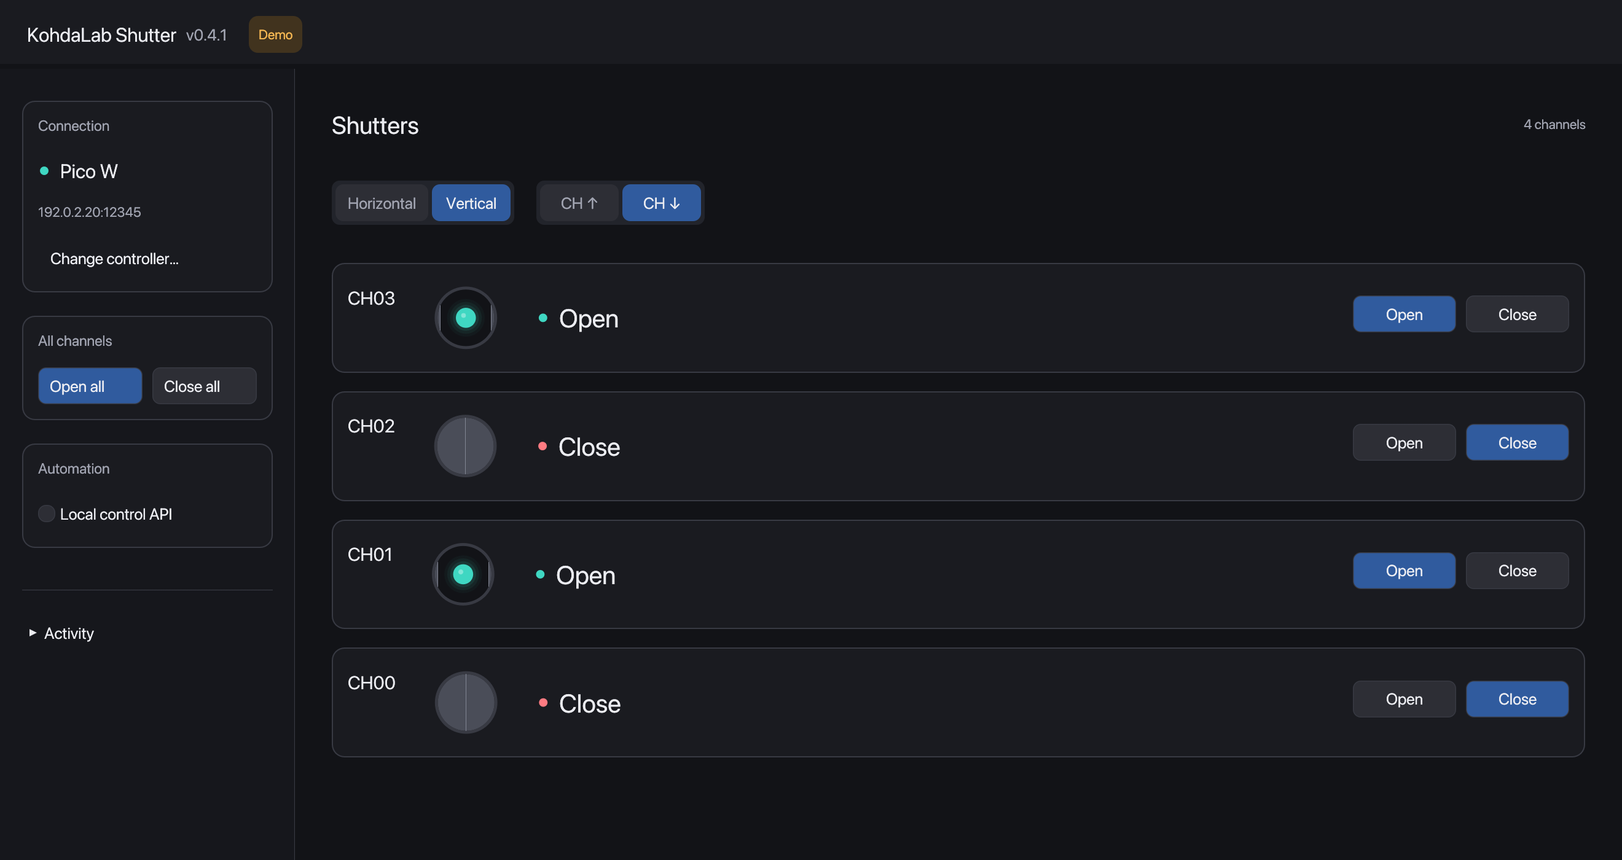
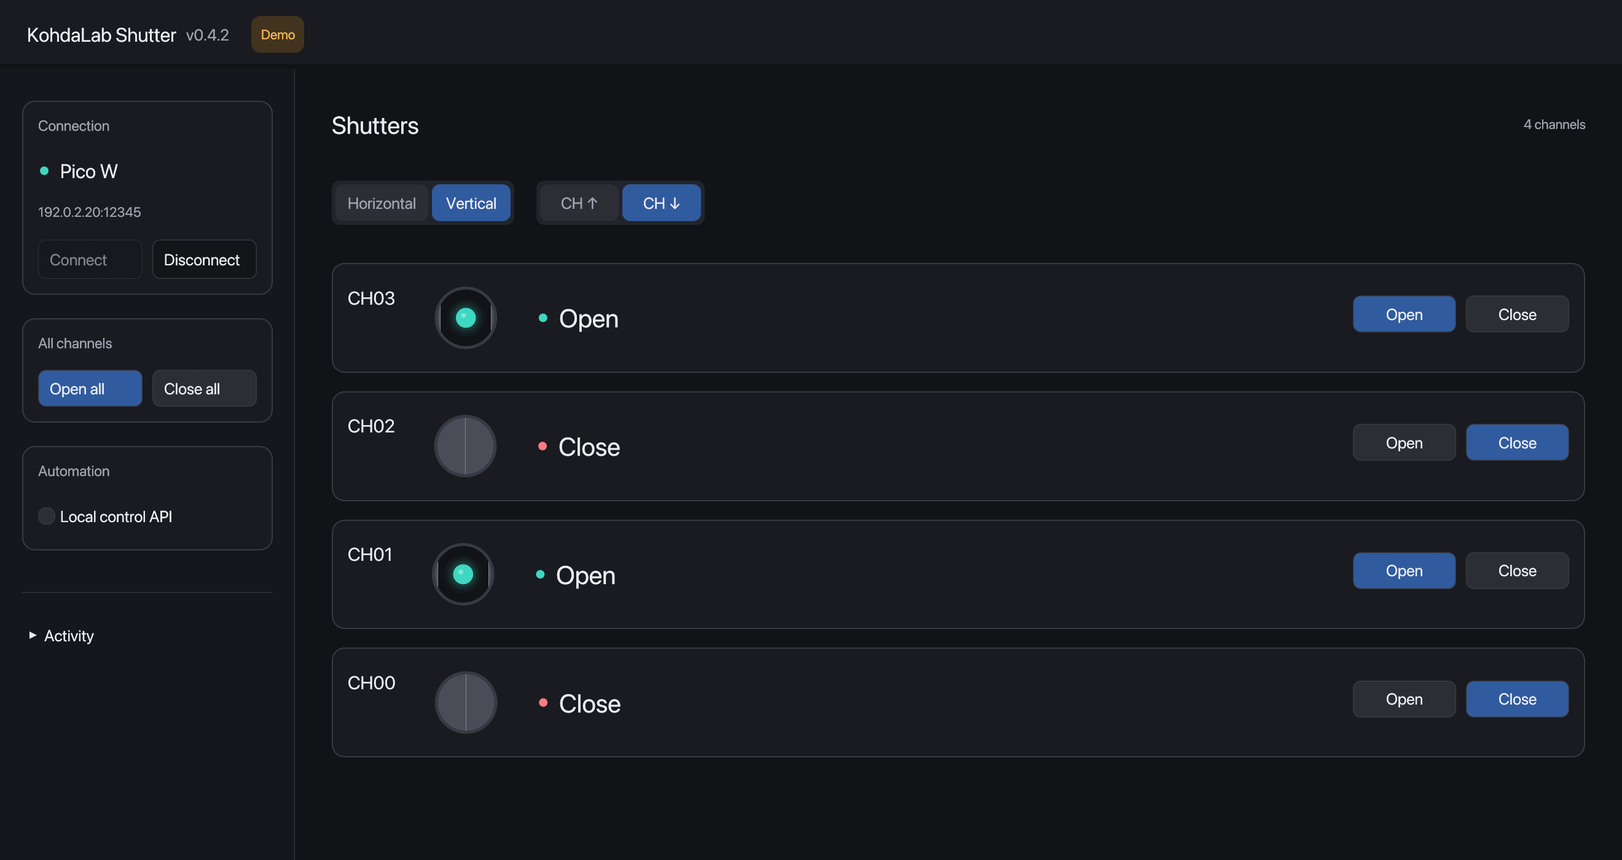
Parallelize shutter motion and stabilize connection controls for v0.4.2

diff --git a/src/bin/gui.rs b/src/bin/gui.rs
@@ -652,18 +652,6 @@ impl App {
                                 .color(MUTED),
                         );
                     });
-                ui.add_space(9.0);
-                if ui
-                    .add_enabled(
-                        manual,
-                        egui::Button::new("Change controller…")
-                            .fill(Color32::TRANSPARENT)
-                            .stroke(Stroke::NONE),
-                    )
-                    .clicked()
-                {
-                    self.disconnect();
-                }
             } else {
                 if ui
                     .add_enabled(
@@ -712,13 +700,40 @@ impl App {
                         ui.label("Port");
                         ui.add(egui::DragValue::new(&mut self.port).range(1..=65535));
                     });
-                    if ui
-                        .add_sized([ui.available_width(), 34.0], egui::Button::new("Connect"))
-                        .clicked()
-                    {
-                        self.connect();
-                    }
                 });
+            }
+            ui.add_space(9.0);
+            ui.columns(2, |columns| {
+                if columns[0]
+                    .add_enabled(
+                        manual && !connected && !self.host.trim().is_empty(),
+                        egui::Button::new("Connect")
+                            .min_size(Vec2::new(columns[0].available_width(), 32.0)),
+                    )
+                    .clicked()
+                {
+                    self.connect();
+                }
+                if columns[1]
+                    .add_enabled(
+                        manual && connected,
+                        egui::Button::new("Disconnect")
+                            .min_size(Vec2::new(columns[1].available_width(), 32.0)),
+                    )
+                    .clicked()
+                {
+                    self.disconnect();
+                }
+            });
+            // Connection/progress errors belong to the sidebar, never above
+            // the shutter cards where background polling would move controls.
+            if self.error || (!connected && self.pending.is_some()) {
+                ui.add_space(8.0);
+                ui.label(RichText::new(&self.message).small().color(if self.error {
+                    RED
+                } else {
+                    MUTED
+                }));
             }
             if !connected {
                 ui.add_enabled_ui(manual, |ui| {
@@ -837,18 +852,12 @@ impl App {
                         .on_hover_text("Descending channel order");
                 });
             });
+            // Keep the same toolbar geometry during every background refresh.
+            let (indicator, _) = ui.allocate_exact_size(Vec2::splat(18.0), egui::Sense::hover());
             if self.pending.is_some() {
-                ui.spinner();
+                egui::Spinner::new().paint_at(ui, indicator);
             }
         });
-        if self.error || self.pending.is_some() || !self.connected() {
-            ui.add_space(14.0);
-            ui.label(RichText::new(&self.message).small().color(if self.error {
-                RED
-            } else {
-                MUTED
-            }));
-        }
         ui.add_space(24.0);
         if self.status.is_empty() {
             ui.add_space(80.0);
@@ -1497,6 +1506,88 @@ mod tests {
                 .is_err()
         );
     }
+    fn render_text(app: &mut App) -> Vec<(String, egui::Pos2)> {
+        fn collect(shape: &egui::epaint::Shape, text: &mut Vec<(String, egui::Pos2)>) {
+            match shape {
+                egui::epaint::Shape::Text(label) => {
+                    text.push((label.galley.job.text.clone(), label.pos))
+                }
+                egui::epaint::Shape::Vec(shapes) => {
+                    for shape in shapes {
+                        collect(shape, text);
+                    }
+                }
+                _ => {}
+            }
+        }
+        let ctx = egui::Context::default();
+        style(&ctx);
+        let output = ctx.run(
+            egui::RawInput {
+                screen_rect: Some(egui::Rect::from_min_size(
+                    egui::Pos2::ZERO,
+                    Vec2::new(1320.0, 700.0),
+                )),
+                ..Default::default()
+            },
+            |ctx| {
+                egui::SidePanel::left("connection")
+                    .exact_width(240.0)
+                    .frame(egui::Frame::new().inner_margin(18))
+                    .show(ctx, |ui| app.connection_panel(ui));
+                egui::CentralPanel::default().show(ctx, |ui| app.channels_panel(ui));
+            },
+        );
+        let mut text = Vec::new();
+        for shape in output.shapes {
+            collect(&shape.shape, &mut text);
+        }
+        text
+    }
+
+    #[test]
+    fn polling_does_not_move_shutter_controls_or_show_connection_messages_above_them() {
+        for layout in [Layout::Horizontal, Layout::Vertical] {
+            let mut app = App::demo();
+            app.layout = layout;
+            app.message = "Connected. Commanded positions refresh every second.".into();
+            let idle = render_text(&mut app);
+            let (_sender, receiver) = mpsc::channel();
+            app.pending = Some(receiver);
+            let polling = render_text(&mut app);
+            for channel in 0..4 {
+                let name = format!("CH{channel:02}");
+                let before = idle
+                    .iter()
+                    .find(|(text, _)| text == &name)
+                    .expect("idle channel")
+                    .1;
+                let after = polling
+                    .iter()
+                    .find(|(text, _)| text == &name)
+                    .expect("polling channel")
+                    .1;
+                assert_eq!(before, after, "Polling moved {name}");
+            }
+            assert!(!polling.iter().any(|(text, _)| text == &app.message));
+        }
+    }
+
+    #[test]
+    fn connection_controls_always_show_connect_and_disconnect() {
+        let mut app = App::demo();
+        for connected in [true, false] {
+            app.demo_connected = connected;
+            let text = render_text(&mut app);
+            for label in ["Connect", "Disconnect"] {
+                assert!(
+                    text.iter().any(|(text, _)| text == label),
+                    "Missing {label}"
+                );
+            }
+        }
+    }
+
     #[test]
     fn display_order_is_numeric_for_both_layouts_without_renumbering_channels() {
         let mut app = App::demo();

diff --git a/server/settings.py b/server/settings.py
@@ -20,15 +20,14 @@ I2C_FREQ = 400_000
 PCA9685_ADDRESS = 0x40
 PCA9685_ANGLE_OFFSET = 0
 
-# Move one servo at a time to avoid supply-current spikes. Motion is slewed in
-# small steps, then PWM is released so a mechanism at its stop cannot keep
-# drawing stall current. Increase SERVO_RELEASE_DELAY_MS only if the shutter
-# needs more settling time. Set SERVO_RELEASE_PWM=False only for mechanisms
-# that cannot hold position without torque; doing so restores stall risk.
+# Motion is slewed in small steps, then PWM is released so a mechanism at its
+# stop cannot keep drawing stall current. Increase SERVO_RELEASE_DELAY_MS only
+# if the shutter needs more settling time. Set SERVO_RELEASE_PWM=False only
+# for mechanisms that cannot hold position without torque; doing so restores
+# stall risk.
 SERVO_STEP_DEGREES = 3
 SERVO_STEP_INTERVAL_MS = 20
 SERVO_RELEASE_DELAY_MS = 500
-SERVO_MAX_ACTIVE = 1
 SERVO_RELEASE_PWM = True
 
 # Add or remove entries here to build a different number of channels.
@@ -71,3 +70,7 @@ CHANNELS = (
         "open": 90,
     },
 )
+
+# Drive every configured channel in parallel by default. Set a lower value
+# when the external servo supply cannot support all shutters moving together.
+SERVO_MAX_ACTIVE = len(CHANNELS)

diff --git a/tests/test_servo.py b/tests/test_servo.py
@@ -1,5 +1,6 @@
 import pytest
 
+from server import settings
 from server.servo import ChannelConfigurationError, ServoBoard, validate_channels
 
 
@@ -86,6 +87,33 @@ def test_multiple_active_channels_can_hold_pwm(channels, pwm, clock):
     clock.advance(100)
     board.tick()
     assert not board.busy()
+    assert pwm.disabled == []
+
+
+def test_firmware_default_advances_all_configured_channels_in_parallel(pwm, clock):
+    board = make_board(
+        settings.CHANNELS,
+        pwm,
+        clock,
+        max_active=settings.SERVO_MAX_ACTIVE,
+    )
+    assert settings.SERVO_MAX_ACTIVE == len(settings.CHANNELS)
+
+    board.tick()
+    for index in range(board.count()):
+        assert board.open(index)
+
+    clock.advance(board.step_interval_ms)
+    board.tick()
+
+    assert board.positions == [
+        channel["close"]
+        + (
+            min(abs(channel["open"] - channel["close"]), board.step_degrees)
+            * (1 if channel["open"] > channel["close"] else -1)
+        )
+        for channel in settings.CHANNELS
+    ]
     assert pwm.disabled == []
 
 

diff --git a/docs/release-notes.md b/docs/release-notes.md
@@ -1,25 +1,23 @@
-Rust desktop controller with the light-window interface, Pico W discovery and external GUI API.
+## Changes / 変更内容
+
+- **Parallel All actions:** updated Pico settings allow all configured channels to move concurrently instead of waiting for the previous channel's movement and settling delay.
+- **Connect / Disconnect:** both controls are visible in the Connection panel.
+- **Stable layout:** background status polling no longer inserts a Connected message above the shutter cards, and the progress indicator uses fixed geometry. Horizontal and Vertical layouts stay in place during refreshes.
+- Includes the shared KohdaLab signing-policy preparation and Windows product metadata. These binaries are still not publisher-signed/Apple-notarized; no production signing is claimed.
+
+**Pico update required for parallel movement:** edit `SERVO_MAX_ACTIVE` in the device's existing `settings.py` to the channel count (e.g. `4` for four channels), then restart. Preserve calibrated angles, wiring and Wi-Fi/IP settings. The source default is `SERVO_MAX_ACTIVE = len(CHANNELS)` after the channel definitions. Updating only the desktop cannot change the device's current limit.
+
+**並列動作にはPico側の設定変更も必要です。** 実機の既存`settings.py`で`SERVO_MAX_ACTIVE`をCH数（4台なら`4`）へ変更し、再起動してください。校正角度・ピン・Wi-Fi/IP設定は変更しません。GUIだけの更新では実機の同時駆動数は変わりません。
 
 ## Downloads / ダウンロード
 
-- **Windows 10/11 (x64):** download `kohdalab-shutter-0.4.1-windows-x64.zip`, extract it, then open `kohdalab-shutter-gui.exe`. `Demo.cmd` opens a hardware-free preview.
-- **Mac (macOS 13+, Apple Silicon + Intel):** download `kohdalab-shutter-0.4.1-macos-universal.dmg`, then drag `KohdaLab Shutter.app` to Applications. The ZIP is an alternative containing the same app.
+- **Windows 10/11 (x64):** download `kohdalab-shutter-0.4.2-windows-x64.zip`, extract it, then open `kohdalab-shutter-gui.exe`. `Demo.cmd` opens a hardware-free preview.
+- **Mac (macOS 13+, Apple Silicon + Intel):** download `kohdalab-shutter-0.4.2-macos-universal.dmg`, then drag `KohdaLab Shutter.app` to Applications. The ZIP is an alternative containing the same app.
 
-**No Rust or Python installation is needed to run the desktop app.** The Pico W keeps its MicroPython firmware; initial firmware upload is a separate step.
+**No Rust or Python installation is needed to run the desktop app.** Initial Pico firmware setup and Python/Jupyter integration remain separate steps.
 
-PCでGUIを使うだけならRust・Pythonは不要です。Pico W側はMicroPythonを継続し、初回転送は別途必要です。
+Builds are **not publisher-signed or Apple-notarized**; Windows or macOS may prompt on first launch. Read the [installation guide](https://github.com/woolen-yarn/kohdalab-shutter/blob/main/docs/install.md). The Mac app is ad-hoc signed for integrity; SignPath acceptance and Apple enrollment/credentials remain pending.
 
-## Included / 内容
-
-- Front-facing light window: Open reveals light, Close covers it; Moving / Unknown remain explicit.
-- KohdaLab dark theme, concise English controls, version at the top.
-- Horizontal / vertical layouts and ascending / descending channel order.
-- Find Pico W, explicit selection among multiple controllers, calibrated shutter states.
-- GUI-owned local API v2 and Python/Jupyter client support.
-- Native GUI + CLI, license notices, build origin and SHA-256 checksums.
-
-Builds are **not publisher-signed or Apple-notarized**; Windows or macOS may prompt on first launch. Read the [installation guide](https://github.com/woolen-yarn/kohdalab-shutter/blob/main/docs/install.md) for platform instructions. The Mac app is ad-hoc signed for integrity, not trusted-publisher identification.
-
-Validation includes native builds/tests on Windows, Mac and Linux; packaged CLI entry points on Windows, Apple Silicon and Intel; universal Mach-O and app-signature verification; DMG integrity; and simulated GUI/API checks. This does not establish physical Pico/Wi-Fi/servo validation.
+Validation includes Windows/Mac/Linux tests and builds, native packaging/metadata checks, Intel Mac package checks, simulated GUI/API checks, fixed-position egui rendering during pending refreshes and simulated parallel Pico movement. Physical Pico/Wi-Fi/servo validation remains an owner hardware check.
 
 [Installation / 導入](https://github.com/woolen-yarn/kohdalab-shutter/blob/main/docs/install.md) · [Pico W setup / 実機設定](https://github.com/woolen-yarn/kohdalab-shutter/blob/main/docs/rust-client.md) · [External API / 外部制御](https://github.com/woolen-yarn/kohdalab-shutter/blob/main/docs/gui-api.md)

diff --git a/docs/specification.md b/docs/specification.md
@@ -95,9 +95,9 @@
 
 ## Servo Behavior / サーボ仕様
 
-**JP:** PCA9685 は 50Hz で動作します。標準設定ではサーボパルス幅を 500us から 2500us へ線形変換し、0 度から 180 度に対応させます。現在のシャッター制御では `close=0`, `open=90` を使います。移動は非ブロッキングで段階的に行い、既定では同時駆動を 1 台に制限し、到達後に PWM を解放します。`STATUS` は最後に出力した段階角を返すため、移動中は中間角になることがあります。
+**JP:** PCA9685 は 50Hz で動作します。標準設定ではサーボパルス幅を 500us から 2500us へ線形変換し、0 度から 180 度に対応させます。現在のシャッター制御では `close=0`, `open=90` を使います。移動は非ブロッキングで段階的に行い、既定では設定済みの全チャンネルを同時駆動し、到達後に PWM を解放します。外部電源に余裕がない場合は `SERVO_MAX_ACTIVE` を小さくして同時駆動数を制限できます。`STATUS` は最後に出力した段階角を返すため、移動中は中間角になることがあります。
 
-**EN:** The PCA9685 runs at 50 Hz. By default, servo pulse width is mapped linearly from 500 us to 2500 us, corresponding to 0 to 180 degrees. The current shutter control uses `close=0` and `open=90`. Motion is stepped without blocking the event loop, limited to one active servo by default, and PWM is released after settling. `STATUS` reports the last commanded step, so it may contain an intermediate angle during motion.
+**EN:** The PCA9685 runs at 50 Hz. By default, servo pulse width is mapped linearly from 500 us to 2500 us, corresponding to 0 to 180 degrees. The current shutter control uses `close=0` and `open=90`. Motion is stepped without blocking the event loop, drives every configured channel in parallel by default, and releases PWM after settling. If the external supply cannot support simultaneous motion, lower `SERVO_MAX_ACTIVE` to limit concurrency. `STATUS` reports the last commanded step, so it may contain an intermediate angle during motion.
 
 ## n-Channel Expansion Rules / nCH 拡張ルール
 
@@ -130,7 +130,7 @@
 | PC cannot connect / PC から接続できない | Check that the Pico server was started by long press and that the IP is `10.32.145.232` / Pico 側サーバが長押しで起動しているか、IP が `10.32.145.232` か |
 | `Wi-Fi config missing` | Check that `server/wifi_config.py` was uploaded to the Pico / `server/wifi_config.py` を Pico へ転送したか |
 | LEDs work but servo does not / LED は動くがサーボが動かない | Check PCA9685 power, I2C, servo power, and common GND / PCA9685 電源、I2C、サーボ電源、GND 共通を確認 |
-| Servo buzzes, heats, or sticks / サーボが唸る、発熱する、固まる | Move open/close angles away from the mechanical stop, verify the external supply under load, keep `SERVO_MAX_ACTIVE=1`, and keep PWM release enabled / open/close 角を機械端から離し、負荷時の外部電源を確認し、同時駆動 1 台と PWM 解放を維持する |
+| Servo buzzes, heats, or sticks / サーボが唸る、発熱する、固まる | Move open/close angles away from the mechanical stop, verify the external supply under load, lower `SERVO_MAX_ACTIVE` if needed, and keep PWM release enabled / open/close 角を機械端から離し、負荷時の外部電源を確認し、必要に応じて `SERVO_MAX_ACTIVE` を下げ、PWM 解放を維持する |
 | Channel order is wrong / チャンネルがずれる | Check `CHANNELS` order, PCA9685 channel numbers, and physical labels / `CHANNELS` の順番、PCA9685 チャンネル、物理ラベルを確認 |
 | GUI shows `ERROR` or `UNKNOWN` / GUI に `ERROR` または `UNKNOWN` が出る | `STATUS` failed or the angle is not equal to the configured open/close angle / `STATUS` 取得失敗、または角度が open/close 以外 |
 

diff --git a/docs/rust-client.md b/docs/rust-client.md
@@ -36,12 +36,18 @@ CH ↑ は昇順（CH00から）、CH ↓ は降順（最大のCH番号から）
 起動時は `--order ascending` / `--order descending` でも指定できます。
 kohdalab-trkrと共通の黒・グレーの配色、枠線、青い選択ボタンを使用します。上部にはアプリ名とバージョンを表示します。
 丸い窓はOpenで扉が開いて光が見え、Closeで扉が閉じて光が隠れます。Movingは矢印、Unknownは「?」で表示します。図の下のOpen／Closeで操作し、一括操作は左パネルのAll channelsにまとめています。図と状態は指令・校正情報に基づき、光の透過を実測したものではありません。
-右パネルはなく、接続情報・外部API・履歴は左パネルに集約しています。
+右パネルはなく、接続情報・外部API・履歴は左パネルに集約しています。Connection欄にはConnect／Disconnectを並べて表示します。定期的な状態取得では、シャッター領域にメッセージ行を出し入れしないため縦位置は変わりません。
 
 Open／CloseはPicoの `CHANNELS` の校正値と、移動待ち・駆動・整定中の情報から判定します。
 旧ファームウェアの `STATUS` だけでは角度の意味を推測せずUnknownにします。
 `server/main.py` と `server/servo.py` を含む最新ファイルを再転送してください。
 状態表示は指令・出力状態であり、物理的な開閉を位置センサーで検証したものではありません。
+
+## Parallel All actions / All操作の並列動作
+
+更新後のPico設定では、設定された全CHを並列で駆動します。すでに稼働中の実機は、既存の`settings.py`の`SERVO_MAX_ACTIVE`をCH数（4台なら`4`）へ変更して再起動してください。PCアプリだけの更新では、実機の同時駆動数は変わりません。
+
+配布ソースの既定値は`CHANNELS`定義後の`SERVO_MAX_ACTIVE = len(CHANNELS)`です。実機独自の校正角度・ピン・ネットワーク設定を保ったまま変更してください。電源容量に合わせて同時数を下げる設定も残しています。
 
 ## External control / 外部制御
 

diff --git a/CODE_SIGNING_POLICY.md b/CODE_SIGNING_POLICY.md
@@ -2,9 +2,9 @@
 
 ## Current status / 現在の状態
 
-The published v0.4.1 Windows binaries are unsigned; the Mac app is ad-hoc signed and not Apple-notarized. This repository is not accepted by SignPath Foundation and does not claim sponsorship or a trusted signing certificate. Preparation files and passing CI are not evidence that a release is signed.
+The published Windows binaries are unsigned; the Mac app is ad-hoc signed and not Apple-notarized. This repository is not accepted by SignPath Foundation and does not claim sponsorship or a trusted signing certificate. Preparation files and passing CI are not evidence that a release is signed.
 
-公開中のv0.4.1はWindowsが未署名、Macがアドホック署名のみでApple公証なしです。SignPath Foundationの承認・支援を受けたとの表明ではありません。準備ファイルやCIの成功だけで、署名済みになったとは表示しません。
+現在の配布版はWindowsが未署名、Macがアドホック署名のみでApple公証なしです。SignPath Foundationの承認・支援を受けたとの表明ではありません。準備ファイルやCIの成功だけで、署名済みになったとは表示しません。
 
 ## Shared KohdaLab policy / 共通方針
 

diff --git a/CHANGELOG.md b/CHANGELOG.md
@@ -1,6 +1,10 @@
 # Changelog
 
-## Unreleased
+## 0.4.2 — 2026-10-29
+
+- Defaulted Pico motion concurrency to every configured channel, allowing All actions to overlap instead of waiting for each channel's settling delay. Existing device settings require updating; movement stepping and PWM release stay configurable.
+- Added paired Connect / Disconnect controls and removed the transient polling message above the shutters. Reserved fixed spinner geometry so neither layout moves during periodic refreshes.
+- Added a real egui geometry regression for polling and a same-tick parallel firmware regression.
 
 - Prepared the same SignPath approval/first-party policy as TRKR/IV, exact unsigned GUI/CLI review artifacts, Windows product/version resources, and strict signature/publisher/timestamp verification.
 - Added an owner-activated protected Mac Developer ID/notarization workflow with hardened runtime, Accepted receipts, stapling, Gatekeeper checks and final checksums. Real provider execution remains pending owner enrollment/approval/credentials; v0.4.1 downloads remain unchanged.

diff --git a/docs/code-signing.md b/docs/code-signing.md
@@ -2,9 +2,9 @@
 
 [Policy](../CODE_SIGNING_POLICY.md) · [Privacy](../PRIVACY.md) · [Current downloads](install.md)
 
-**Current release v0.4.1 remains unsigned on Windows and ad-hoc signed/unnotarized on Mac.** No provider application, certificate enrollment, account purchase or signing request has been performed by this repository change.
+**Current desktop releases remain unsigned on Windows and ad-hoc signed/unnotarized on Mac.** No provider application, certificate enrollment, account purchase or signing request has been performed by this repository change.
 
-現在のv0.4.1は変更しません。Windowsは未署名、Macはアドホック署名・未公証です。この変更で外部サービスへの申請・契約・証明書発行・署名要求を行ったわけではありません。
+Windowsは未署名、Macはアドホック署名・未公証です。この変更で外部サービスへの申請・契約・証明書発行・署名要求を行ったわけではありません。
 
 ## Windows: the same SignPath preparation policy as TRKR/IV
 

diff --git a/docs/install.md b/docs/install.md
@@ -13,9 +13,9 @@ The Mac ZIP is an alternative to the DMG; both contain the same universal app. W
 
 MacのZIP版はDMG版と同じUniversalアプリです。このリリースではWindows ARM64・Linux向けバイナリは配布していません。
 
-For future trusted builds, see [signing setup](code-signing.md). The current v0.4.1 downloads have not been replaced with signed/notarized files.
+For future trusted builds, see [signing setup](code-signing.md). The current downloads remain unsigned/ad-hoc until provider enrollment and activation.
 
-今後の正規署名・公証の準備は[設定手順](code-signing.md)を参照してください。公開中のv0.4.1を署名済みファイルへ差し替えたわけではありません。
+今後の正規署名・公証の準備は[設定手順](code-signing.md)を参照してください。現在の配布版は、署名サービスの承認・設定が済むまでは未署名・アドホック署名です。
 
 ## First launch / 初回起動
 
